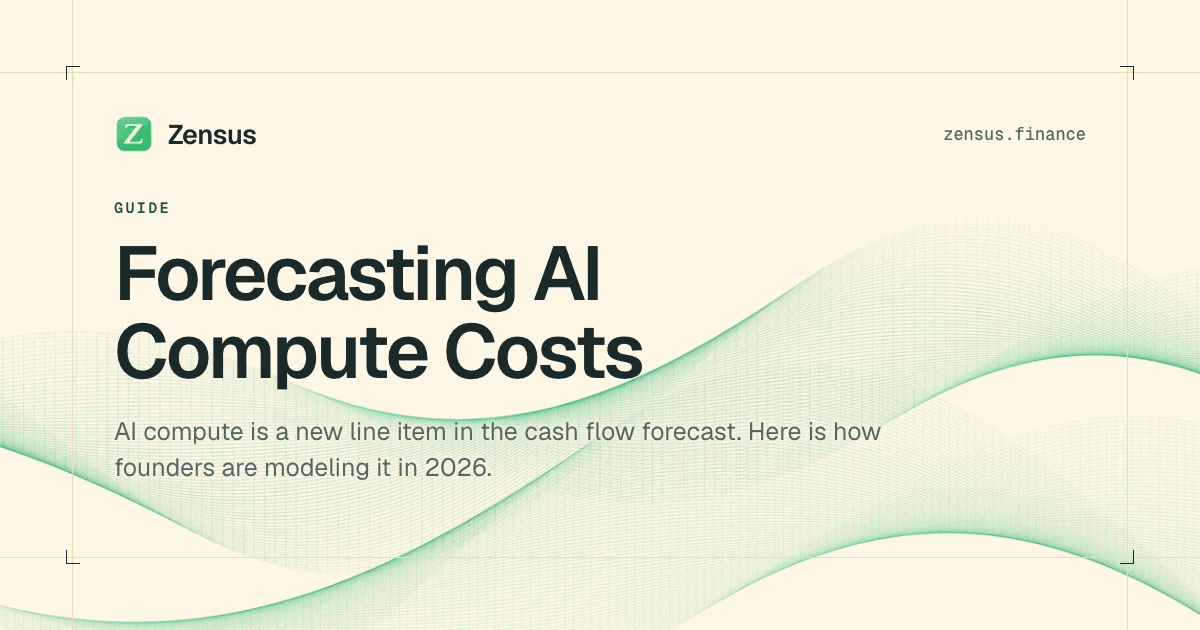
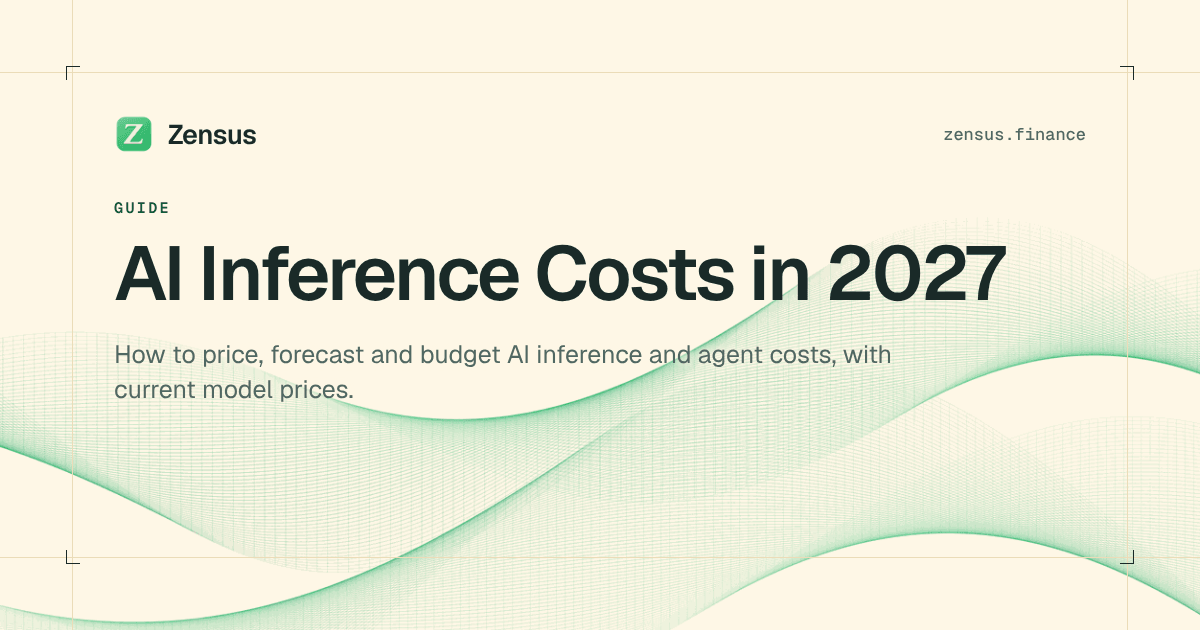
Blog: refresh the AI inference costs guide (Nov 2026 prices) (#222)
Refreshes /blog/forecasting-ai-compute-costs-for-founders (same slug) with current Claude and OpenAI prices, a Quick Answer, dated price changes, a credits run-out example, a Bottom Line, ten new FAQs and two new images. Adds optional metaDescription, updatedBy and breadcrumbTitle post fields.

Claude-Session: https://claude.ai/code/session_019ooEdb3cMa83bYseguout9

Changed region(s): [[0.0925, 0.3921, 0.8633, 0.6333], [0.0925, 0.6635, 0.74, 0.754]]

diff --git a/src/pages/BlogPost.tsx b/src/pages/BlogPost.tsx
@@ -12,7 +12,7 @@ import { FOCUS_RING, HIGH_PRIORITY, SQUIRCLE } from "@/components/blog/PostCard"
 import Navbar from "@/components/landing/Navbar";
 import Footer from "@/components/landing/Footer";
 import { formatPostDate, getPostBySlug, getTopic, postBreadcrumbs, postUrl, topicPath } from "@/lib/blog";
-import { getAuthor, type Author } from "@/lib/authors";
+import { authors, getAuthor, type Author } from "@/lib/authors";
 import { blogStats } from "@/generated/blog-stats";
 import { cn } from "@/lib/utils";
 import {
@@ -100,6 +100,15 @@ const BlogPost = () => {
   const pageUrl = postUrl(meta.slug);
   const published = meta.dateModified ?? meta.date;
   const author = getAuthor(meta.author);
+  // A second person who refreshed the post. The byline supports one author,
+  // so they get an "Updated by" line under it instead. Unknown keys render
+  // nothing rather than falling back to the default author.
+  const updater: Author | null =
+    meta.updatedBy && meta.updatedBy in authors ? getAuthor(meta.updatedBy) : null;
+  const updatedMonth = meta.dateModified
+    ? formatPostDate(meta.dateModified).replace(/ \d+,/, "")
+    : null;
+  const metaDescription = meta.metaDescription ?? meta.description;
   const topic = getTopic(meta.topic);
   const cover = blogStats[meta.slug]?.thumbnail;
 
@@ -114,7 +123,7 @@ const BlogPost = () => {
 
   const blogPostingLd = blogPostingSchema({
     headline: meta.title,
-    description: meta.description,
+    description: metaDescription,
     datePublished: meta.date,
     dateModified: published,
     url: pageUrl,
@@ -132,7 +141,7 @@ const BlogPost = () => {
     <div className="min-h-screen bg-background">
       <Helmet>
         <title>{documentTitle}</title>
-        <meta name="description" content={meta.description} />
+        <meta name="description" content={metaDescription} />
         <meta
           name="robots"
           content="index, follow, max-image-preview:large, max-snippet:-1, max-video-preview:-1"
@@ -144,7 +153,7 @@ const BlogPost = () => {
         <meta property="og:title" content={meta.ogTitle ?? meta.title} />
         <meta
           property="og:description"
-          content={meta.ogSubtitle ?? meta.description}
+          content={meta.ogSubtitle ?? metaDescription}
         />
         <meta property="og:image" content={ogImageUrl} />
         <meta property="og:image:width" content="1200" />
@@ -157,7 +166,7 @@ const BlogPost = () => {
         <meta name="twitter:title" content={meta.ogTitle ?? meta.title} />
         <meta
           name="twitter:description"
-          content={meta.ogSubtitle ?? meta.description}
+          content={meta.ogSubtitle ?? metaDescription}
         />
         <meta name="twitter:image" content={ogImageUrl} />
         <link rel="canonical" href={pageUrl} />
@@ -234,6 +243,18 @@ const BlogPost = () => {
                 </div>
                 <CopyLink url={pageUrl} />
               </div>
+              {updater && updatedMonth ? (
+                <p className="text-[13.5px] text-muted-foreground">
+                  Updated by{" "}
+                  <AuthorLink
+                    author={updater}
+                    className={cn("rounded-sm font-medium text-foreground transition-colors hover:text-sage-dark", FOCUS_RING)}
+                  >
+                    {updater.name}
+                  </AuthorLink>
+                  , {updatedMonth}
+                </p>
+              ) : null}
             </div>
           </header>
 

diff --git a/src/lib/blog.ts b/src/lib/blog.ts
@@ -10,7 +10,11 @@ export interface BlogPostMeta {
   title: string;
   /** Document title for SERPs when meta.title is long; defaults to title + brand. */
   seoTitle?: string;
+  /** Text under the title on the post page, and the card blurb. */
   description: string;
+  /** Search-result description when it should differ from `description`;
+   *  defaults to `description`. */
+  metaDescription?: string;
   date: string;
   dateModified?: string;
   category: string;
@@ -20,6 +24,9 @@ export interface BlogPostMeta {
   ogImage: string;
   /** Shorter headline for OG/Twitter cards when the page title is long. */
   ogTitle?: string;
+  /** Short name for the post's breadcrumb step when it should differ from
+   *  ogTitle; defaults to ogTitle, then title. */
+  breadcrumbTitle?: string;
   ogSubtitle?: string;
   /** Optional FAQ block for FAQPage JSON-LD (targets People Also Ask). */
   faqs?: BlogFaqItem[];
@@ -37,6 +44,9 @@ export interface BlogPostMeta {
   thumbnailAlt?: string;
   /** Author key into the authors map; defaults to the site's default author. */
   author?: string;
+  /** Author key of a second person who refreshed the post. The page shows
+   *  "Updated by <name>, <month year of dateModified>" under the byline. */
+  updatedBy?: string;
 }
 
 /*
@@ -188,9 +198,10 @@ export function topicBreadcrumbs(topic: BlogTopic): Crumb[] {
  * visible trail and the markup cannot drift apart. Every step is a canonical,
  * prerendered page; Google asks for "a typical user path to a page", and
  * readers reach a post through its topic. The post is named by its short
- * ogTitle, the form a search result's breadcrumb line can show.
+ * breadcrumbTitle (or ogTitle), the form a search result's breadcrumb line
+ * can show.
  */
-export function postBreadcrumbs(meta: Pick<BlogPostMeta, "slug" | "title" | "ogTitle" | "topic">): Crumb[] {
+export function postBreadcrumbs(meta: Pick<BlogPostMeta, "slug" | "title" | "ogTitle" | "breadcrumbTitle" | "topic">): Crumb[] {
   const topic = getTopic(meta.topic);
-  return [...(topic ? topicBreadcrumbs(topic) : BLOG_TRAIL), { name: meta.ogTitle ?? meta.title, url: postUrl(meta.slug) }];
+  return [...(topic ? topicBreadcrumbs(topic) : BLOG_TRAIL), { name: meta.breadcrumbTitle ?? meta.ogTitle ?? meta.title, url: postUrl(meta.slug) }];
 }

diff --git a/src/vite-env.d.ts b/src/vite-env.d.ts
@@ -9,6 +9,7 @@ interface BlogPostMeta {
   title: string;
   seoTitle?: string;
   description: string;
+  metaDescription?: string;
   date: string;
   dateModified?: string;
   category: string;
@@ -18,6 +19,8 @@ interface BlogPostMeta {
   ogImage: string;
   ogTitle?: string;
   ogSubtitle?: string;
+  breadcrumbTitle?: string;
+  updatedBy?: string;
   faqs?: BlogFaqItem[];
 }
 
